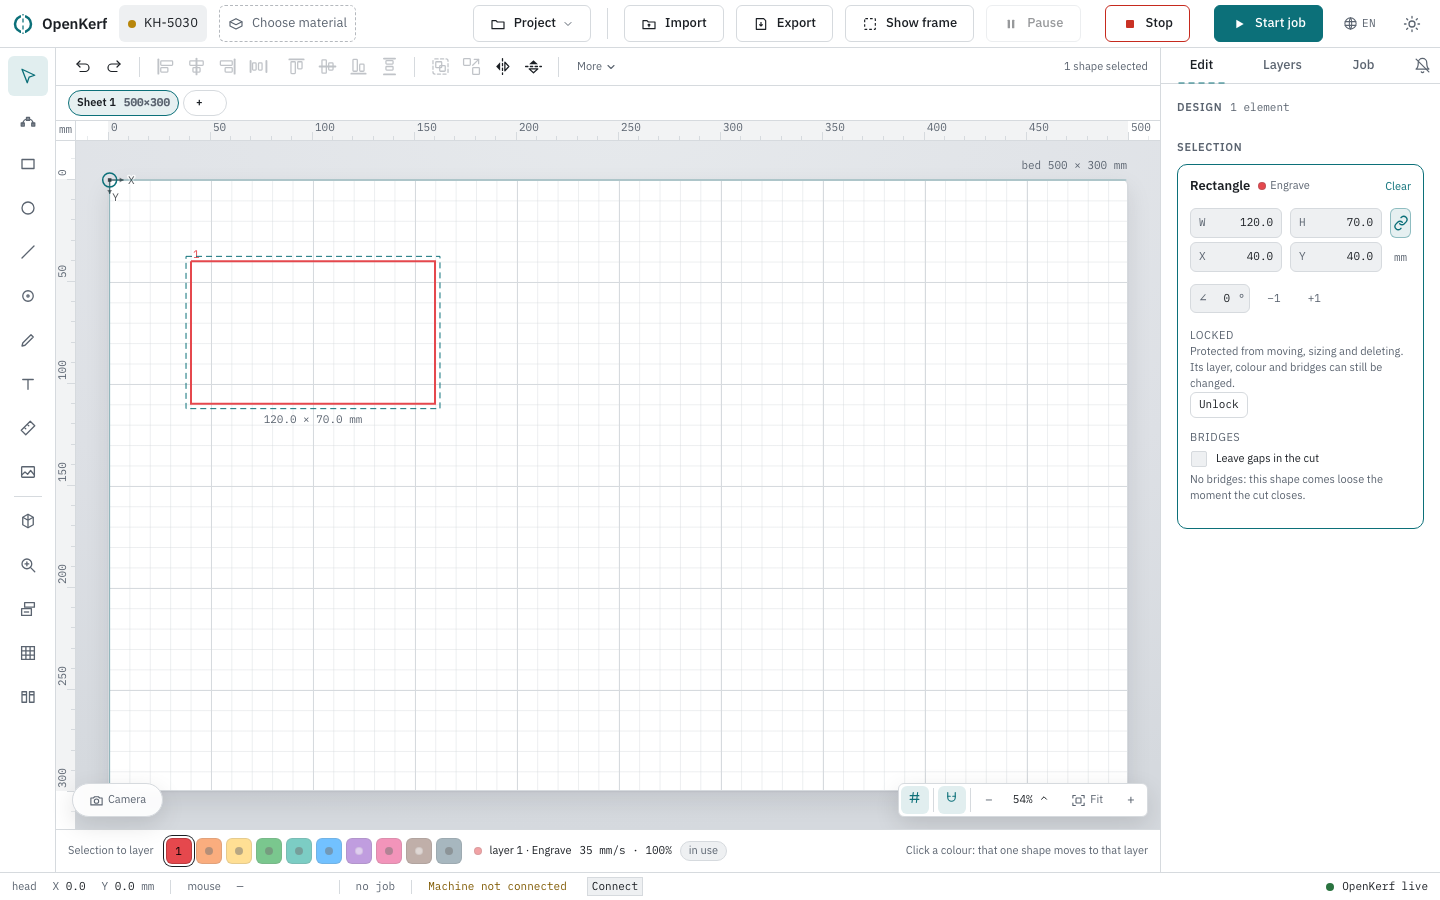
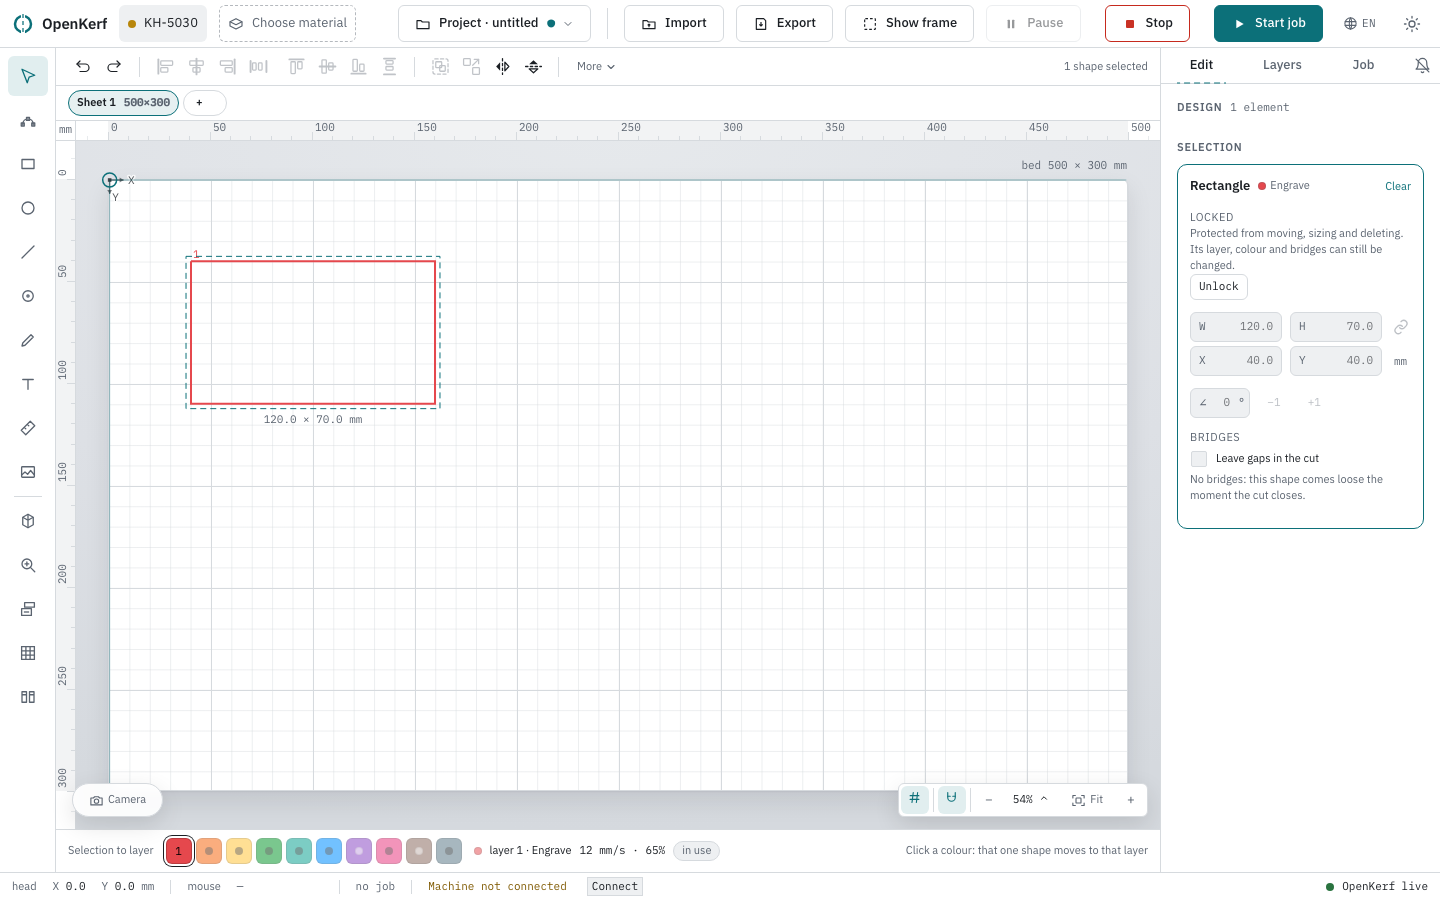
The ratio chain looks switched off too, and the lock picture shows the panel as it now is
Claude-Session: https://claude.ai/code/session_01LvVU83t3U9SiGLxSKeRbhD

Changed region(s): [[0.8125, 0.2178, 1.0, 0.4667], [0.2812, 0.0, 0.375, 0.0311], [0.4375, 0.9333, 0.5, 0.9644]]

diff --git a/frontend/tests/size-fields-honest.test.ts b/frontend/tests/size-fields-honest.test.ts
@@ -33,7 +33,6 @@ const BASE = process.env.OK_BASE ?? 'http://127.0.0.1:8121';
 let reachable = false;
 let browser: Browser | null = null;
 let page: Page;
-let bed = { x: 0, y: 0, w: 0, h: 0, wideMm: 1, highMm: 1 };
 
 const post = (path: string, body: unknown) =>
 	fetch(`${BASE}${path}`, {
@@ -52,38 +51,50 @@ async function sizeMm() {
 	return { width: x1 - x0, height: y1 - y0 };
 }
 
-/** A point on the bed given in millimetres, as screen coordinates. */
-const at = (xMm: number, yMm: number) => ({
-	x: bed.x + (bed.w * xMm) / bed.wideMm,
-	y: bed.y + (bed.h * yMm) / bed.highMm
-});
-
-async function measureBed() {
-	const box = await page.$eval('.bed > svg', (node) => {
-		const rect = node.getBoundingClientRect();
-		return { x: rect.x, y: rect.y, w: rect.width, h: rect.height };
-	});
-	bed = { ...bed, ...box };
+/**
+ * Every notice card out of the way.
+ *
+ * The fenced server carries a standing "No connection to the machine" alarm — it has no
+ * machine on the other end — and that card hangs under the top bar over the first
+ * 244 px of the page. An earlier version of this file picked the rectangle up by
+ * clicking its top edge at (75, 15) mm, which lands at y 137: the click went to the
+ * card, nothing was selected, and the test reported the pattern absent because it never
+ * got to look. The selection now comes through the URL, and the card is dismissed
+ * anyway so it cannot sit over what is measured.
+ */
+async function dismissNotices() {
+	for (let i = 0; i < 3; i++) {
+		const seen = page.getByRole('button', { name: 'Seen', exact: true });
+		if ((await seen.count()) === 0) return;
+		await seen.first().click().catch(() => {});
+		await page.waitForTimeout(200);
+	}
 }
 
 /** One rectangle of 120 x 80 mm on an otherwise empty bed, selected. */
 async function aRectangle() {
 	await fetch(`${BASE}/api/design/clear`, { method: 'POST' });
 	await fetch(`${BASE}/api/design/autosave`, { method: 'DELETE' }).catch(() => {});
-	await post('/api/design/elements', {
-		type: 'rect',
-		x_mm: 15,
-		y_mm: 15,
-		width_mm: 120,
-		height_mm: 80
+	const made = await (
+		await post('/api/design/elements', {
+			type: 'rect',
+			x_mm: 15,
+			y_mm: 15,
+			width_mm: 120,
+			height_mm: 80
+		})
+	).json();
+	const id = made?.ids?.[0];
+	assert.ok(id, 'the rectangle was not made');
+	await page.goto(`${BASE}/?tab=design&select=${encodeURIComponent(id)}`, {
+		waitUntil: 'domcontentloaded'
 	});
-	await page.goto(`${BASE}/?tab=design`, { waitUntil: 'domcontentloaded' });
 	await page.waitForTimeout(2500);
-	await measureBed();
-	// Pick it up by its top edge, not by the empty middle.
-	const onEdge = at(75, 15);
-	await page.mouse.click(onEdge.x, onEdge.y);
-	await page.waitForSelector('.figures input[type=number]', { timeout: 20000 });
+	await dismissNotices();
+	// The selection really happened before anything is read off the panel: a card over
+	// the canvas or a slow first paint used to look exactly like the fields being absent.
+	await page.waitForSelector('.selected', { timeout: 20000 });
+	await page.waitForSelector('.selected .figures input[type=number]', { timeout: 20000 });
 	await page.waitForTimeout(900);
 }
 
@@ -110,11 +121,6 @@ before(async () => {
 	page = await (await browser.newContext({ viewport: { width: 1440, height: 900 } })).newPage();
 	await page.goto(`${BASE}/?tab=design`, { waitUntil: 'domcontentloaded' });
 	await page.waitForTimeout(3000);
-	const devices: { active: boolean; bed: { width_mm: number; height_mm: number } }[] = await (
-		await fetch(`${BASE}/api/devices`)
-	).json();
-	const size = devices.find((d) => d.active)!.bed;
-	bed = { ...bed, wideMm: size.width_mm, highMm: size.height_mm };
 });
 
 after(async () => {
@@ -169,4 +175,49 @@ test('a locked shape has its five number fields switched off, with the reason on
 	const own = await sizeMm();
 	assert.equal(five[0].value, own.width.toFixed(1));
 	assert.equal(five[1].value, own.height.toFixed(1));
+
+	// The sixth control in the grid, the ratio chain, is off with them — and looks it.
+	// Measured before: disabled with the reason on it, but opacity 1, rgb(12, 112, 121)
+	// on its teal pressed background and cursor: pointer, beside five fields at 0.6.
+	const chain = await page.$eval('.selected .figures .link', (node) => {
+		const style = getComputedStyle(node);
+		return {
+			disabled: (node as HTMLButtonElement).disabled,
+			title: node.getAttribute('title') ?? '',
+			opacity: Number(style.opacity),
+			cursor: style.cursor,
+			background: style.backgroundColor
+		};
+	});
+	assert.ok(chain.disabled, 'the ratio chain is still pressable on a locked shape');
+	assert.match(chain.title, /locked/i, 'the ratio chain is off without saying why');
+	assert.ok(
+		chain.opacity <= 0.6,
+		`the ratio chain is off but reads as live: opacity ${chain.opacity}`
+	);
+	assert.equal(chain.cursor, 'not-allowed', 'the ratio chain still invites a click');
+	assert.match(
+		chain.background,
+		/rgba\(0, 0, 0, 0\)|transparent/,
+		`the ratio chain keeps its pressed background while off: ${chain.background}`
+	);
+});
+
+test('an X that is not a number puts the shape\u2019s own position back', async (t) => {
+	if (!reachable) return noServer(t, BASE);
+	await aRectangle();
+
+	// A browser hands `<input type=number>` an empty string for anything it cannot read,
+	// and `Number('')` is 0 — measured on the baseline, emptying X moved the rectangle
+	// from 15.0 to 0.0 mm. X and Y take any number, so there is no rule to say out loud
+	// here; what they owe is the same as W and H: never a number the shape does not have.
+	const x = page.locator('.selected .figures input[aria-label*="X"]');
+	await x.fill('');
+	await x.press('Enter');
+	await page.waitForTimeout(900);
+
+	const where = await design();
+	const leftMm = (where.elements[0].bounds as number[])[0] / (where.units_per_mm as number);
+	assert.equal(leftMm.toFixed(1), '15.0', 'an unreadable X moved the shape');
+	assert.equal(await x.inputValue(), '15.0', 'the field kept a position the shape has not');
 });

diff --git a/frontend/src/lib/components/DesignPanel.svelte b/frontend/src/lib/components/DesignPanel.svelte
@@ -160,9 +160,19 @@
 		sizeNote = null;
 	});
 
+	/**
+	 * X and Y take any number, so the only thing they can refuse is not-a-number.
+	 *
+	 * That is deliberately silent where W and H say a sentence: "a width has to be more
+	 * than 0 mm" is a rule about the shape, and there is no such rule to state about an
+	 * empty box — a browser hands `<input type=number>` an empty string for anything it
+	 * cannot read, and the honest answer to nothing typed is the shape's own position
+	 * back. What both halves of the grid do share is the part that mattered: no field
+	 * keeps a number the shape does not have.
+	 */
 	function commitPosition(axis: 'x' | 'y', raw: string, field?: HTMLInputElement) {
-		const value = Number(raw);
 		if (!live) return;
+		const value = raw.trim() === '' ? Number.NaN : Number(raw);
 		if (!Number.isFinite(value)) {
 			if (field) field.value = live[axis].toFixed(1);
 			return;
@@ -2749,11 +2759,10 @@
 	}
 	/* A refusal has a colour. Grey is what the panel says about the normal state; the
 	   sentence that says a number was not taken wears the same warn as the pre-flight's
-	   notices and the Generators window's refusals. */
-	.tip.refused {
-		color: var(--warn);
-		font-weight: 500;
-	}
+	   notices and the Generators window's refusals — and only that, because the window's
+	   refusal hint is `--warn` at this size with no weight of its own, and one refused
+	   value should not read heavier in the panel than in the window. */
+	.tip.refused { color: var(--warn); }
 	/* No margin of its own any more: the selection card is a grid with one gap, and a
 	   group that added its own spacing on top of it made the rhythm erratic *and* the
 	   panel longer. */
@@ -3103,12 +3112,23 @@
 		border-radius: var(--radius-field);
 		color: var(--text-2);
 	}
-	.figures .link[aria-pressed='true'] {
+	.figures .link[aria-pressed='true']:not(:disabled) {
 		color: var(--accent);
 		border-color: color-mix(in srgb, var(--accent) 40%, transparent);
 		background: color-mix(in srgb, var(--accent) 10%, transparent);
 	}
 	.figures .link:hover:not(:disabled) { background: var(--surface-2); }
+	/* Off is off, and it has to look it. The chain kept its teal pressed background and
+	   opacity 1 while the five number fields beside it dropped to 0.6 and the rotate
+	   steps to 0.4 — six controls switched off by one lock, one of them still looking
+	   live. Same treatment as `.icon:disabled` below. */
+	.figures .link:disabled {
+		opacity: 0.4;
+		cursor: not-allowed;
+		color: var(--text-2);
+		border-color: transparent;
+		background: none;
+	}
 
 	/* Angle plus four steps on one row. The angle field deliberately gets more room than
 	   a button: "337.5" has to fit in it, and a truncated number is worse than no number —

diff --git a/docs/canvas.md b/docs/canvas.md
@@ -145,14 +145,15 @@ says so, with the way back in it:
 > **LOCKED** — Protected from moving, sizing and deleting. Its layer, colour and bridges can
 > still be changed.
 
-That block stands above the numbers, because the five fields under it are switched off with
-it: W, H, X, Y and the angle each carry "This shape is locked" and cannot be typed into
-while the lock is on. They used to take a number, refuse it afterwards and go on showing
-what you typed over a shape that was still its old size.
+That block stands above the numbers, because the six controls under it are switched off with
+it: W, H, X, Y, the angle and the chain between W and H each carry "This shape is locked",
+and all six are greyed out for as long as the lock is on. They used to take a number, refuse
+it afterwards and go on showing what you typed over a shape that was still its old size.
 
 ![A locked rectangle selected on the bed: the dashed selection frame with its measure
 underneath, no corner handles and no rotation stem, and in the panel on the right the heading
-LOCKED with the sentence about what a lock protects and an Unlock button.](images/31-lock.png)
+LOCKED with the sentence about what a lock protects and an Unlock button, above a greyed-out
+row of W, H, X, Y and the angle.](images/31-lock.png)
 
 That line is the whole rule, and the second half is deliberate. A lock protects **geometry
 and existence** — moving, scaling, rotating, mirroring, aligning, combining, offsetting,
